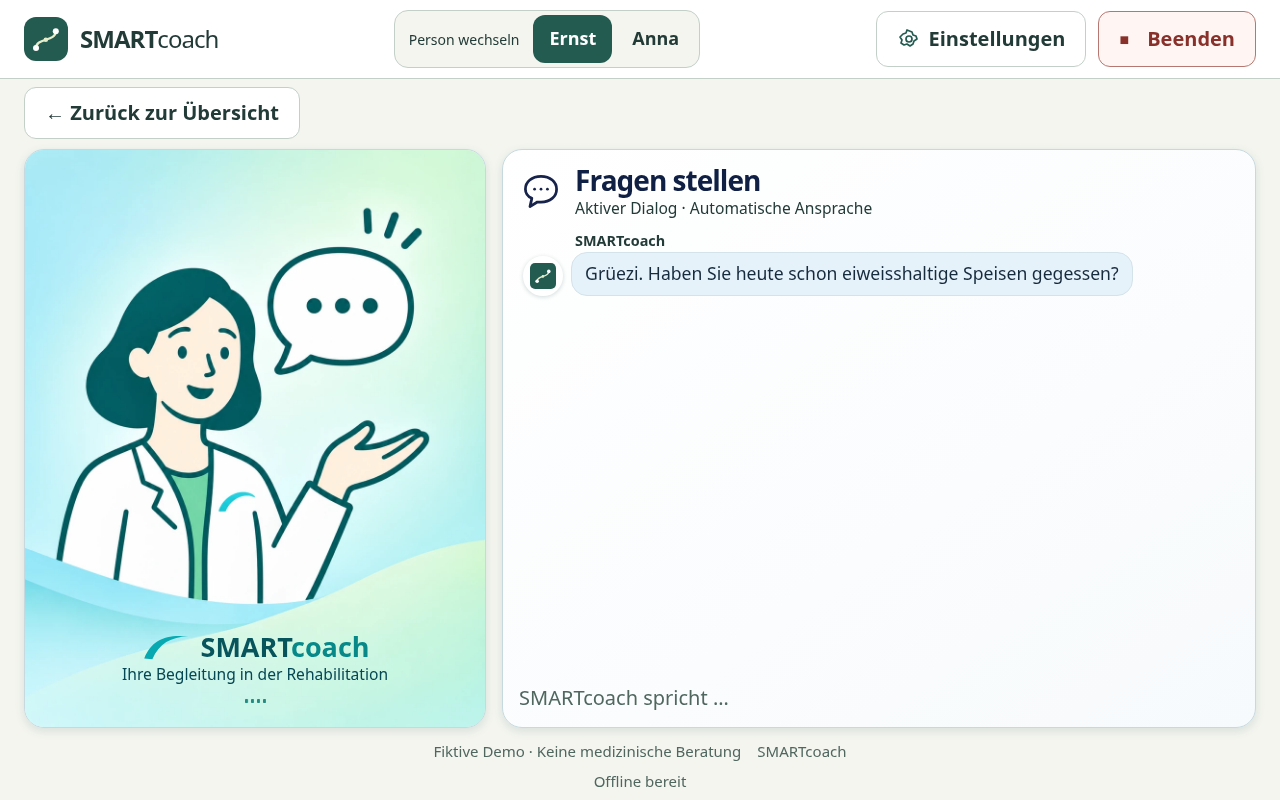
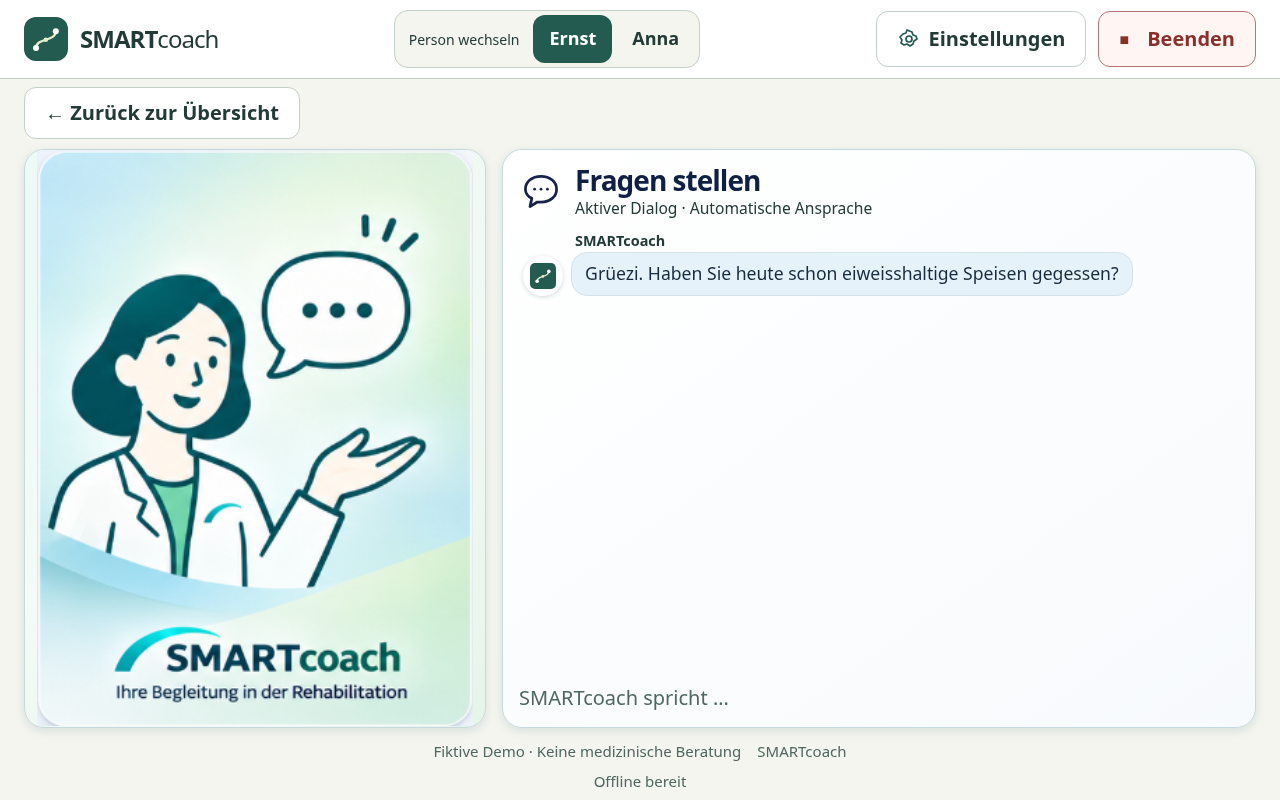
feat: use supplied coach reference png

Changed region(s): [[0.0, 0.1875, 0.4062, 0.9062], [0.125, 0.3125, 0.1562, 0.3438]]

diff --git a/styles.css b/styles.css
@@ -1472,7 +1472,6 @@ main.video-view { max-width:none; padding:0; }
   box-shadow:0 3px 10px #174f5420;
 }
 .automatic-coach-card {
-  position:relative;
   display:flex;
   flex-direction:column;
   align-items:stretch;
@@ -1489,28 +1488,12 @@ main.video-view { max-width:none; padding:0; }
 }
 .automatic-coach-illustration img {
   display:block;
-  width:100%;
+  width:auto;
   height:100%;
-  object-fit:cover;
+  max-width:100%;
+  max-height:100%;
+  object-fit:contain;
 }
-.automatic-coach-caption {
-  position:absolute;
-  right:0;
-  bottom:0;
-  left:0;
-  display:flex;
-  flex:0 0 auto;
-  flex-direction:column;
-  align-items:center;
-  padding:8px 12px 16px;
-  color:#064754;
-  text-align:center;
-}
-.coach-brand { display:flex; align-items:center; justify-content:center; gap:8px; }
-.coach-brand svg { flex:0 0 52px; width:52px; height:32px; }
-.coach-brand strong { color:#07545d; font-size:1.35rem; line-height:1.2; }
-.coach-brand strong span { color:#078889; }
-.automatic-coach-caption>span:not(.automatic-audio-waves) { font-size:.78rem; }
 .automatic-audio-waves {
   display:flex;
   align-items:center;
@@ -1698,11 +1681,6 @@ main.video-view { max-width:none; padding:0; }
   .automatic-coach-card { flex-direction:row; align-items:center; }
   .automatic-coach-illustration { display:flex; flex:0 0 34%; width:34%; height:100%; align-items:center; justify-content:center; padding:4px 0 4px 8px; }
   .automatic-coach-illustration img { width:auto; height:100%; max-width:100%; max-height:100%; object-fit:contain; }
-  .automatic-coach-caption { position:static; flex:1; padding:8px; }
-  .coach-brand { gap:5px; }
-  .coach-brand svg { flex-basis:36px; width:36px; height:24px; }
-  .coach-brand strong { font-size:1rem; }
-  .automatic-coach-caption>span:not(.automatic-audio-waves) { font-size:.65rem; }
   .automatic-chat-card { min-height:560px; padding:12px; }
   .questions-manual-content { min-height:480px; }
   .automatic-chat-log { gap:10px; }

diff --git a/app.js b/app.js
@@ -798,8 +798,7 @@
       <div class="questions-nav">${button('← Zurück zur Übersicht', 'home', 'back')}</div>
       <div class="questions-layout">
         <aside class="automatic-coach-card" data-audio-state="${audioState}" aria-label="SMARTcoach-Begleitung">
-          <div class="automatic-coach-illustration"><img src="./assets/coach-illustration.webp" alt=""></div>
-          <div class="automatic-coach-caption"><div class="coach-brand"><svg viewBox="0 0 64 36" aria-hidden="true"><path d="M4 32C13 9 31 2 58 5 37 5 22 14 14 33Z" fill="#08a9b0"/></svg><strong>SMART<span>coach</span></strong></div><span>Ihre Begleitung in der Rehabilitation</span><span class="automatic-audio-waves" aria-hidden="true"><i></i><i></i><i></i><i></i></span></div>
+          <div class="automatic-coach-illustration"><img src="./assets/coach-reference.png" alt=""></div>
         </aside>
         <section class="automatic-chat-card" aria-labelledby="page-title">
           <header class="automatic-chat-heading"><svg viewBox="0 0 48 48" aria-hidden="true"><path d="M7 22c0-8 7-14 17-14s17 6 17 14-7 14-17 14h-4l-8 5 2-9c-4-2-7-6-7-10Z"/><circle cx="17" cy="22" r="1.5"/><circle cx="24" cy="22" r="1.5"/><circle cx="31" cy="22" r="1.5"/></svg><div><h1 id="page-title" tabindex="-1">Fragen stellen</h1><p>${subtitle}</p></div></header>

diff --git a/sw.js b/sw.js
@@ -1,10 +1,10 @@
 /* Increment the cache version whenever the app shell changes. */
 const PREFIX = `smartcoach-shell:${new URL(self.registration.scope).pathname}:`;
-const CACHE = `${PREFIX}v0.5.6`;
+const CACHE = `${PREFIX}v0.5.7`;
 const CONTENT = ['./content/genesungsweg.md', './content/berichte.md', './content/videos.md', './content/dialoge.md', './content/ansprache-dialoge.md'];
 const SHELL = ['./', './index.html', './styles.css', './demo-data.js', './dashboard-data.js', './idle-image.js', './app.js', './content.js', './local-videos.js', './local-prompt-audio.js', './xray-media.js',
   './manifest.webmanifest', './assets/icon.svg', './assets/icon-192.png', './assets/icon-512.png',
-  './assets/header-landscape.svg', './assets/profile-ernst.svg', './assets/profile-anna.svg', './assets/coach-illustration.webp'];
+  './assets/header-landscape.svg', './assets/profile-ernst.svg', './assets/profile-anna.svg', './assets/coach-reference.png'];
 const scopeURL = new URL(self.registration.scope);
 self.addEventListener('install', event => {
   // Keep an existing app active until its tabs close; avoid mixing app versions.

diff --git a/tests/test_browser.py b/tests/test_browser.py
@@ -251,7 +251,7 @@ class BrowserTests(unittest.TestCase):
     def test_service_worker_and_offline_reload(self):
         self.page.wait_for_function('navigator.serviceWorker.controller !== null')
         self.page.wait_for_function("document.querySelector('#connection-status').textContent.includes('Offline bereit')")
-        self.assertTrue(any(name.endswith(':v0.5.6') for name in self.page.evaluate('caches.keys()')))
+        self.assertTrue(any(name.endswith(':v0.5.7') for name in self.page.evaluate('caches.keys()')))
         scope = self.page.evaluate('navigator.serviceWorker.ready.then(r => r.scope)')
         self.assertEqual(scope, self.url)
         manifest = self.page.evaluate("fetch('./manifest.webmanifest').then(r => r.json())")
@@ -899,8 +899,16 @@ class BrowserTests(unittest.TestCase):
             expect(self.page.locator('.automatic-coach-card')).to_be_visible()
             expect(self.page.locator('.automatic-chat-card')).to_be_visible()
             illustration = self.page.locator('.automatic-coach-illustration img')
-            expect(illustration).to_have_attribute('src', './assets/coach-illustration.webp')
+            expect(illustration).to_have_attribute('src', './assets/coach-reference.png')
             self.assertTrue(illustration.evaluate('(img) => img.complete && img.naturalWidth > 0'))
+            self.assertEqual(illustration.evaluate('(img) => [img.naturalWidth, img.naturalHeight]'), [312, 413])
+            self.assertEqual(illustration.evaluate('(img) => getComputedStyle(img).objectFit'), 'contain')
+            image_box = illustration.bounding_box()
+            wrapper_box = self.page.locator('.automatic-coach-illustration').bounding_box()
+            self.assertLess(abs(image_box['width'] / image_box['height'] - 312 / 413), .01)
+            self.assertGreaterEqual(image_box['y'], wrapper_box['y'] - 1)
+            self.assertLessEqual(image_box['y'] + image_box['height'], wrapper_box['y'] + wrapper_box['height'] + 1)
+            self.assertEqual(self.page.locator('.automatic-coach-caption').count(), 0)
             self.assertTrue(self.page.evaluate('document.documentElement.scrollWidth <= innerWidth'))
             cols = self.page.evaluate('''() => getComputedStyle(document.querySelector('.questions-layout')).gridTemplateColumns.split(' ').map(parseFloat)''')
             self.assertEqual(len(cols), 1 if portrait else 2)

diff --git a/docs/TESTBERICHT.md b/docs/TESTBERICHT.md
@@ -403,22 +403,24 @@ Ansichten (Ruhebildschirm sowie beide Dashboards bei 1280×800 und 800×1280)
 blieben im Pixelvergleich mit `main` unverändert. Die native Darstellung auf
 Android-Hardware wurde nicht geprüft.
 
-## Neue Illustration für „Fragen stellen“
+## Bereitgestellte PNG für „Fragen stellen“
 
-Bildquelle: Die vom Auftraggeber im Chat gezeigte Referenz diente als Vorlage
-für eine vergleichbare Illustration. Das Bild wurde als lokales WebP-Asset
-gespeichert; es ist kein Ausschnitt aus der Originaldatei. Die Wortmarke und
-der Untertitel bleiben HTML. Der Service-Worker-Cache wurde für das neue Asset
-und die geänderte App-Shell auf `v0.5.6` erhöht.
+Bildquelle: `SMARTcoach_Gesundheitsfachkraft_Referenz.png`, unverändert als
+`assets/coach-reference.png` abgelegt (SHA-256:
[1 lines of base64/hex data omitted]
+Wortmarke und Untertitel stehen im Bild; separate HTML-Kopien wurden entfernt.
+Der Service-Worker-Cache wurde für das PNG und die geänderte App-Shell auf
+`v0.5.7` erhöht.
 
-Vier gezielte Chromium-Browserprüfungen bestanden: Themenauswahl, manuelles
-Gespräch und Annas Ansicht mit ladender Illustration; automatische Dialoge
-A–D; eingefrorene Dashboards; Offline-Neustart mit verfügbarer Illustration.
-Bei 1280×800 und 800×1280 sind Figur und Wortmarke sichtbar, ohne horizontalen
-Seitenüberlauf. Der visuelle Vorher-/Nachhervergleich mit dem unveränderten
-Branch-Stand ergab **6 von 6 pixelgleiche eingefrorene Ansichten**: Ruhemodus
-sowie Ernsts und Annas Dashboard in beiden Tabletgrössen. Die bestehenden
-Screenshot-Baselines wurden nicht ersetzt.
+Die vollständige Browser-Suite bestand mit **56 Tests**. Nach der letzten
+CSS-Anpassung bestanden zusätzlich die gezielten Tests für Fragen-Ansicht und
+Offline-Neustart. Der Browser-Test prüft Bildpfad, geladene Originalabmessungen
+(312×413), unverzerrtes Seitenverhältnis und fehlenden Bildbeschnitt. Bei
+1280×800 und 800×1280 ist das PNG vollständig sichtbar, ohne horizontalen
+Seitenüberlauf. Die sechs eingefrorenen Ansichten (Ruhemodus sowie Ernsts und
+Annas Dashboard in beiden Tabletgrössen) waren im visuellen Vergleich mit dem
+unveränderten Branch-Stand pixelgleich. Die Screenshot-Baselines wurden nicht
+ersetzt.
 
 Aktuelle Ansichten: [Themenauswahl quer](screenshots/questions-illustration-landscape.png),
 [manuelles Gespräch quer](screenshots/questions-illustration-manual-landscape.png),

diff --git a/docs/GUI-DESIGN.md b/docs/GUI-DESIGN.md
@@ -71,19 +71,19 @@ weiterhin nicht implementiert.
 ## Fragen stellen · gemeinsames Zweispaltenlayout
 
 Die Seite „Fragen stellen“ verwendet in allen Zuständen dieselbe äussere
-Zweispaltenstruktur: links die lokale WebP-Gesundheitsfachkraft mit Wortmarke,
-geschwungener Fläche und Untertitel, rechts Themenauswahl, manuelles Gespräch,
-automatischer Dialog oder Annas Hinweis. Im Querformat beträgt die Aufteilung
+Zweispaltenstruktur: links die unveränderte PNG-Gesundheitsfachkraft mit
+integrierter Wortmarke, geschwungener Fläche und Untertitel, rechts
+Themenauswahl, manuelles Gespräch, automatischer Dialog oder Annas Hinweis.
+Im Querformat beträgt die Aufteilung
 ungefähr 38:62; im Hochformat erscheint die Figur kompakt über dem Gespräch.
 Manuelle Gesprächszeilen und automatische Nachrichten teilen sich die
 Sprechblasendarstellung. Im linken Bereich erscheinen Schallwellen nur während
 der bestehenden Coach-WAV-Wiedergabe.
 
-Die neue Illustration in `assets/coach-illustration.webp` wurde anhand der vom
-Auftraggeber im Chat gezeigten Bildvorlage als vergleichbares lokales Asset
-erzeugt; sie ist kein Ausschnitt der Originaldatei. Die Wortmarke und der
-Untertitel bleiben als HTML-Text erhalten. Die Illustration wird in allen vier
-Zuständen derselben „Fragen stellen“-Ansicht verwendet.
+Die vom Auftraggeber bereitgestellte PNG-Datei wird bytegetreu unter
+`assets/coach-reference.png` verwendet. Wortmarke und Untertitel sind bereits
+im Bild enthalten; separate HTML-Kopien werden nicht angezeigt. Dieselbe Datei
+erscheint in allen vier Zuständen der „Fragen stellen“-Ansicht.
 
 Die gemeinsame Struktur ändert weder Dialogablauf noch Auswahl, Timer,
 WAV-Zuordnungen, Wiedergabe, Antworten, Voice-Demo oder Abbruch. D01–D03 bleiben
